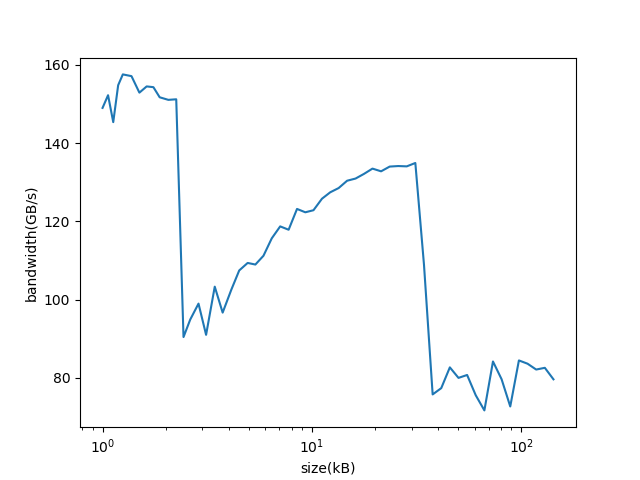
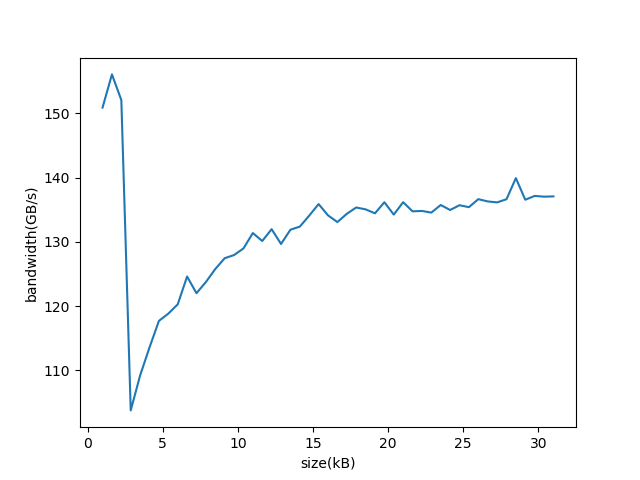
making standalone linear

diff --git a/standalone/bandwidth.cpp b/standalone/bandwidth.cpp
@@ -63,9 +63,9 @@ int main(){
   
    int size=BLOCK_SIZE*16;
    std::cout<<"size(kB),bandwidth(GB/s)\n";
-   while(size<4e4){
+   while(size<8e3){
        std::cout<<get_size_in_kB(size)<<","<<get_speed_in_GB_per_sec(size)<<"\n";
-       size=(static_cast<int>(size*1.1)/BLOCK_SIZE)*BLOCK_SIZE;
+       size=(static_cast<int>(size+BLOCK_SIZE*10)/BLOCK_SIZE)*BLOCK_SIZE;
    }
 
    //ensure that nothing is optimized away:

diff --git a/src/create_report.py b/src/create_report.py
@@ -15,7 +15,7 @@ print(data.head())
 
 labels=list(data)
 
-plt.semilogx(data[labels[0]], data[labels[1]], label="my laptop")
+plt.plot(data[labels[0]], data[labels[1]], label="my laptop")
 plt.xlabel(labels[0])
 plt.ylabel(labels[1])
 
